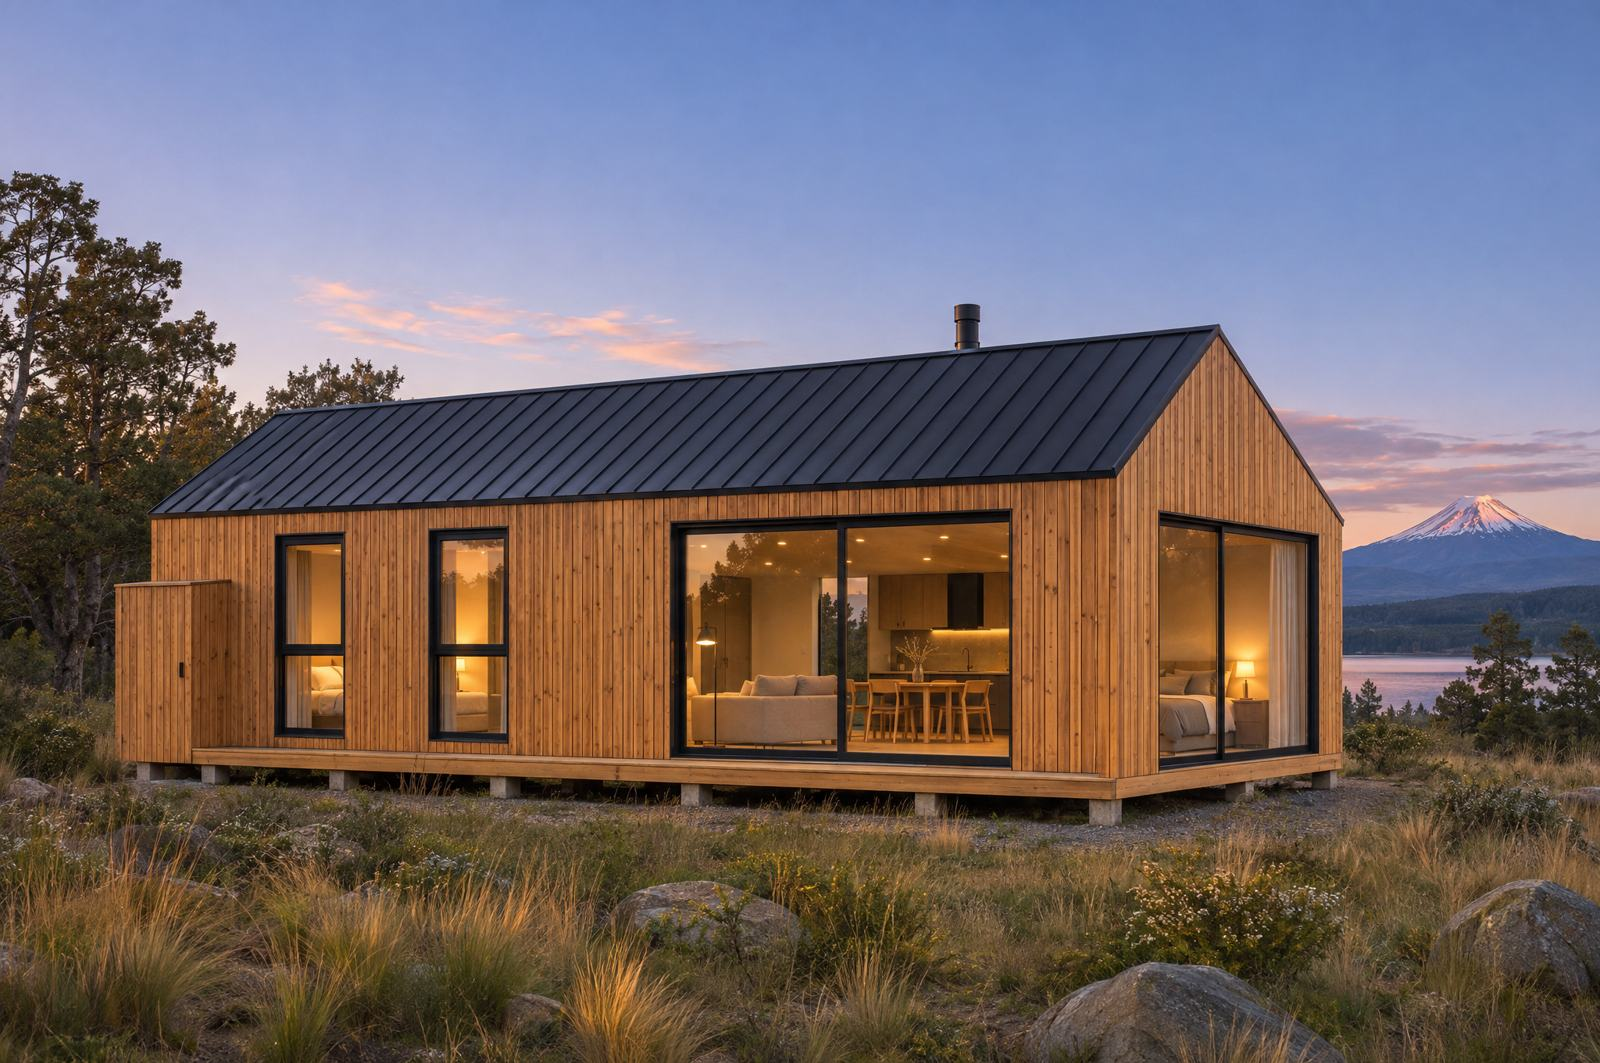
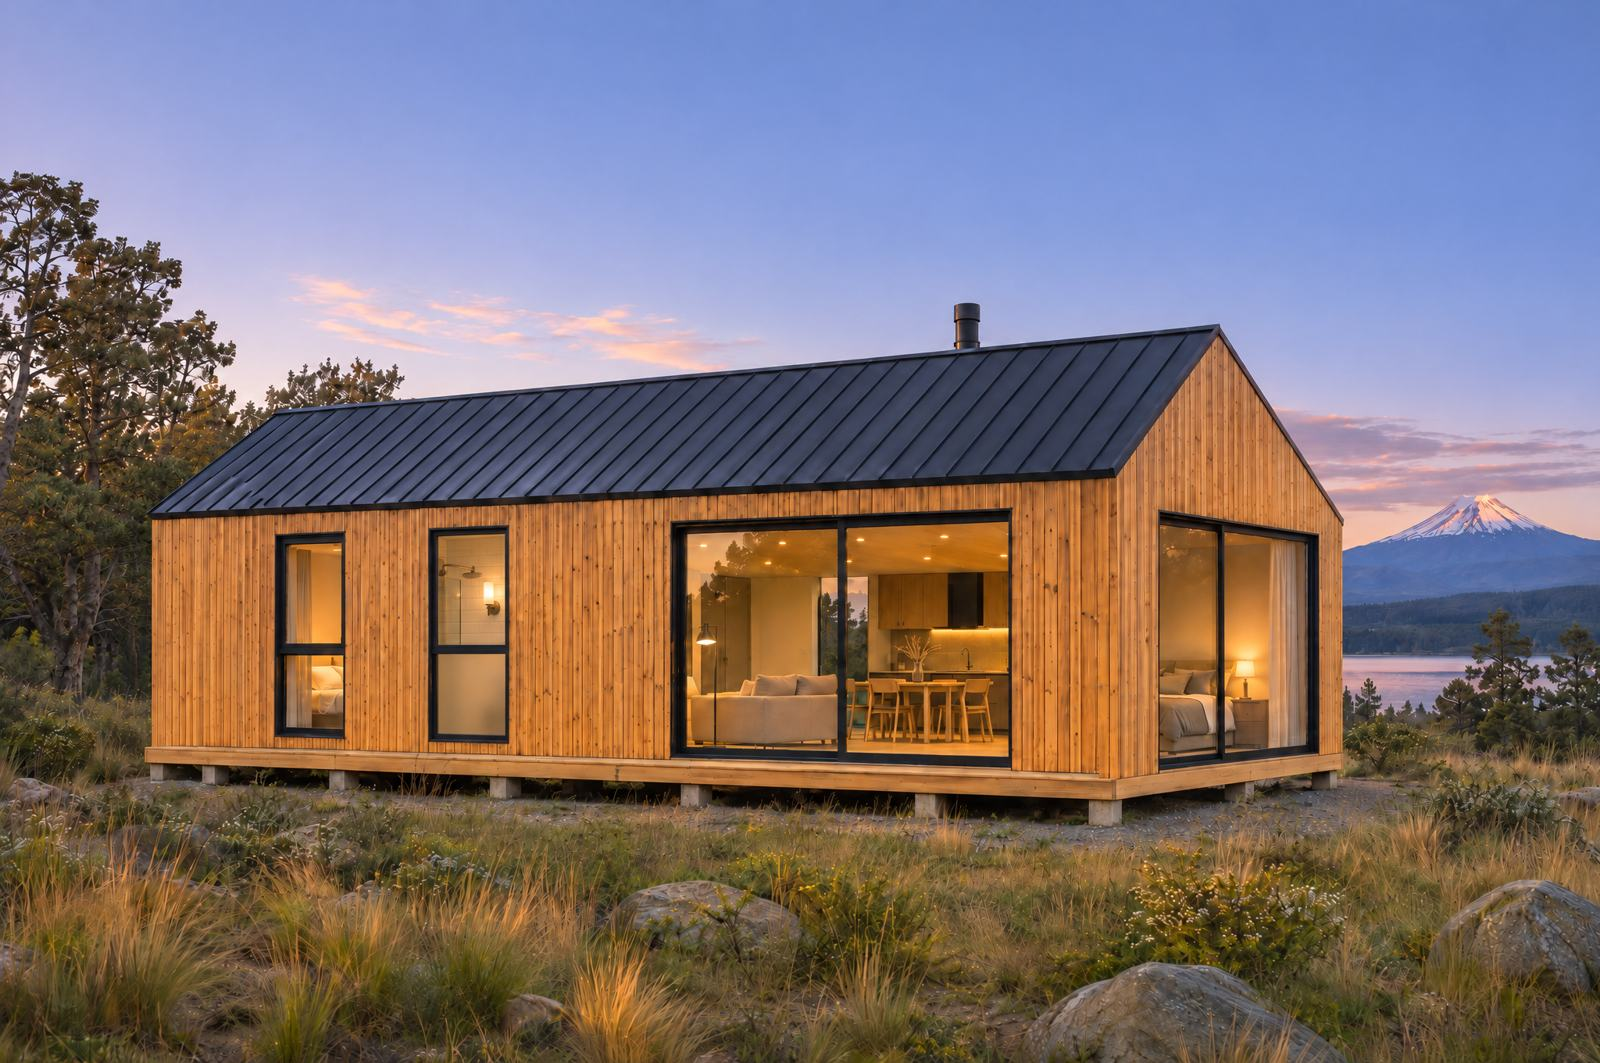
Noki II 75: imágenes corregidas (ventana de baño, puerta cerrada, sin nicho) y quita dormitorio y extra

Changed region(s): [[0.0, 0.1552, 1.0, 1.0], [0.3438, 0.3415, 0.5312, 0.3725]]

diff --git a/app/noki/modelos/datos.ts b/app/noki/modelos/datos.ts
@@ -74,7 +74,7 @@ export const MODELOS: Modelo[] = [
     planoPdf: '/noki/Modelos/planos/nokiII_75.pdf',
     planoImg: '/noki/Modelos/planos/nokiII_75_plano.jpg',
     hero: '/noki/Modelos/galeria/noki-ii-75/hero.jpg',
-    galeria: G('noki-ii-75', 'hero.jpg', 'living.jpg', 'dormitorio.jpg', 'extra.jpg', 'dusk.jpg'),
+    galeria: G('noki-ii-75', 'hero.jpg', 'living.jpg', 'dusk.jpg'),
   },
   {
     slug: 'noki-ii-97',
